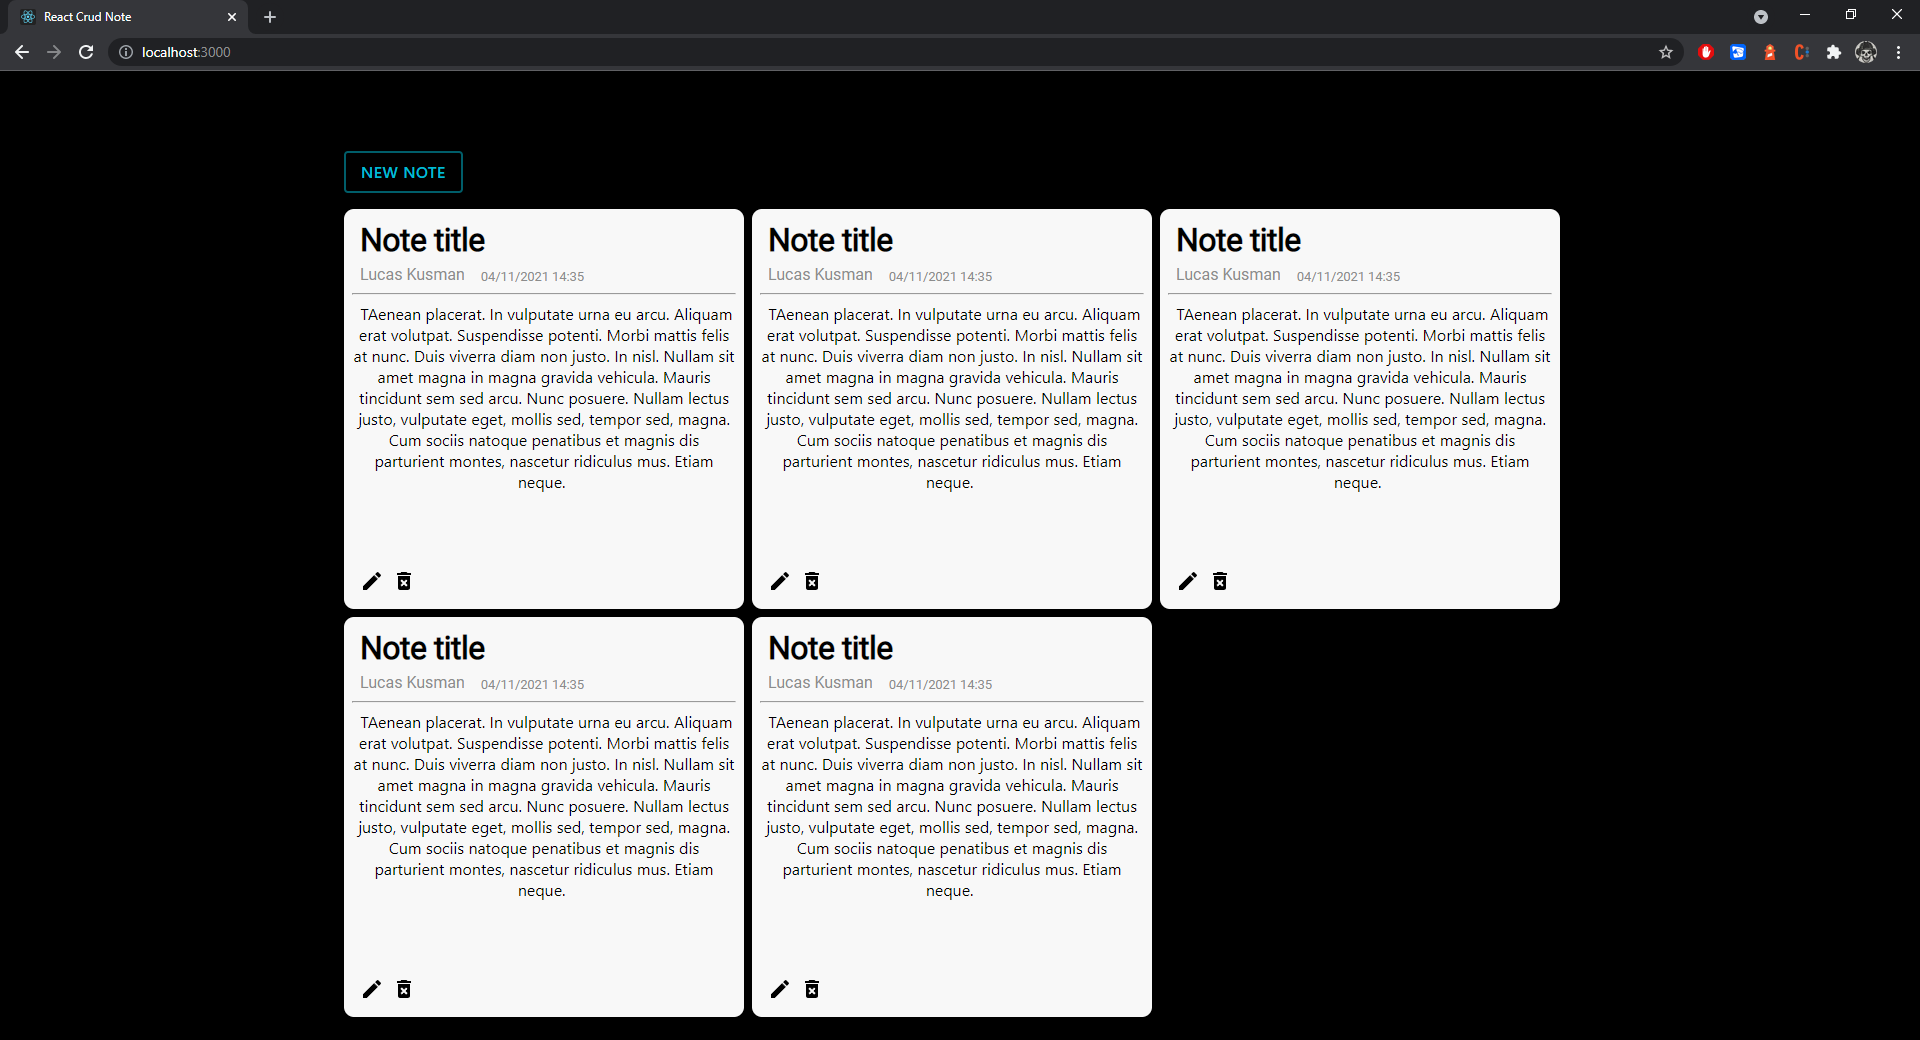
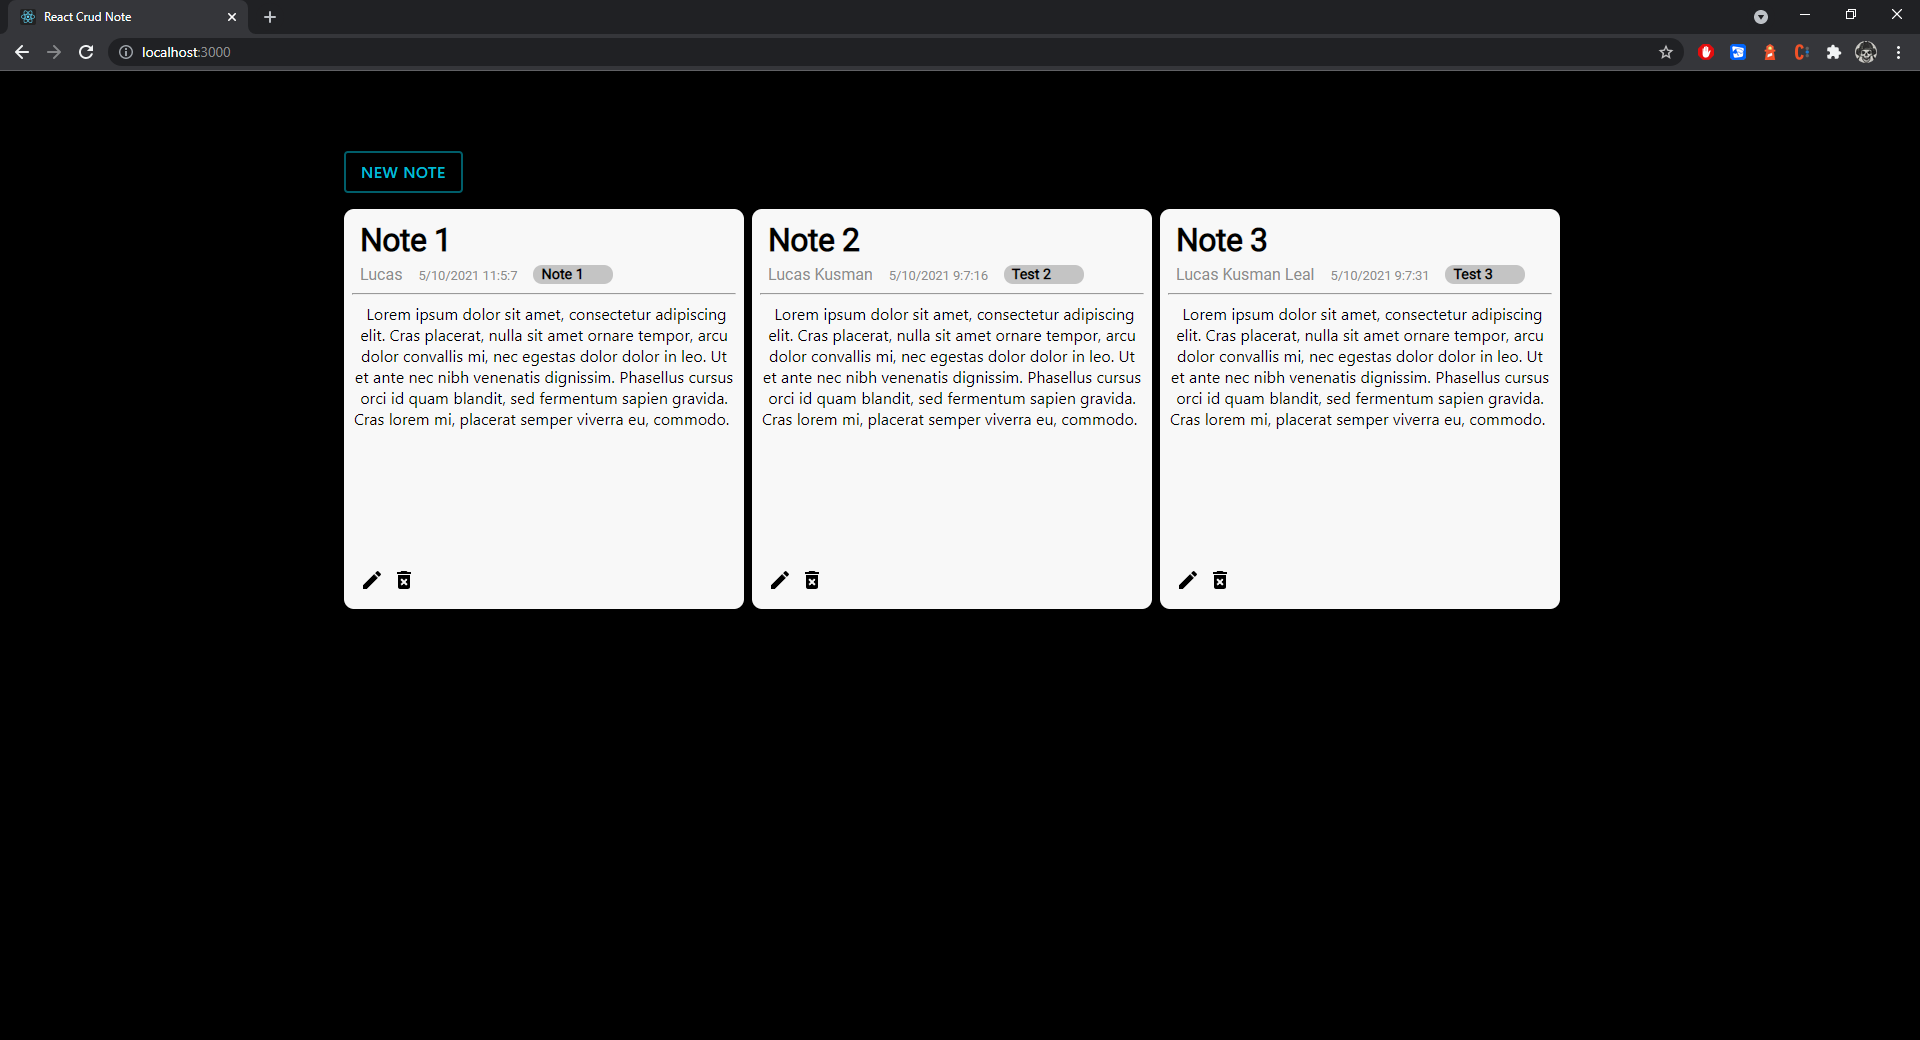
react-crud-note 0.1
-Adicionado função de editar uma nota.
-Adicionado página de edição de notas.
-Adicionado verificação perguntando se o usuário realmente deseja deletar uma nota.
-Adicionado funções para redirecionar  para a página principal quando uma nota é adicionada ou editada.

Changed region(s): [[0.1562, 0.5846, 0.625, 0.9846], [0.1875, 0.2154, 0.8125, 0.4923], [0.4375, 0.2154, 0.4688, 0.2462]]

diff --git a/client/src/pages/EditNote/index.js b/client/src/pages/EditNote/index.js
@@ -1,0 +1,169 @@
+import { React, useState, useLayoutEffect } from "react";
+import { useHistory } from "react-router";
+import { Container, Typography, Button } from "@material-ui/core";
+import { createTheme, ThemeProvider } from "@material-ui/core/styles";
+import Axios from "axios";
+
+import "./../../styles/global.css";
+import "./../../styles/index.css";
+
+function EditNote() {
+
+    var history = useHistory();
+
+    const [note, setNote] = useState([]);
+    const [title, setTitle] = useState();
+    const [tag, setTag] = useState();
+    const [text, setText] = useState();
+
+    useLayoutEffect(() => {
+
+        let data = JSON.parse(window.sessionStorage.getItem("editNote"));
+        setTitle(data[0].title);
+        setTag(data[0].tag);
+        setText(data[0].text);
+        setNote(data[0]);
+
+    }, []);
+
+    const edit = (id) => {
+
+        let datetime = new Date();
+        let date = datetime.getDate()+"/"+datetime.getMonth()+"/"+datetime.getFullYear() + " ";
+        let time = datetime.getHours()+":"+datetime.getMinutes()+":"+datetime.getSeconds();
+        let formatedDatetime = date + time;
+
+        Axios.put("http://localhost:3001/update", { 
+            id: id,
+            title: title,
+            tag: tag,
+            text: text,
+            datetime: formatedDatetime
+        }).then(() => {
+            console.log("Edits updated successful");
+            history.push("/");
+        });
+    }
+
+    function backHome()  {
+        history.push("/");
+    }
+
+    const noteAuthorStyle = {
+        color: "var(--gray-line)",
+        textAlign: "left",
+        fontSize: "1rem",
+        marginLeft: "0.6rem",
+        marginTop: "0.3rem",
+        fontWeight: "590"
+    }
+
+    const tagInputStyle = {
+        backgroundColor: "var(--gray-tag)",
+        marginTop: "0.4rem",
+        marginLeft: "1rem",
+        borderRadius: "20px",
+        border: 0,
+        height: "1.2rem",
+        width: "5rem",
+        paddingLeft: "0.5rem",
+        fontWeight: "600"
+    }
+
+    const titleInputStyle = {
+        width: "95%",
+        height: "2rem",
+        paddingLeft: "0.3rem",
+        marginTop: "0.5rem",
+        marginLeft: "0.5rem",
+        marginRight: "0.5rem",
+        borderRadius: "10px",
+        border: "0",
+        fontSize: "1.5rem",
+        fontWeight: "600",
+        textAlign: "left"
+    }
+
+    const textAreaStyle = {
+        width: "95%",
+        height: "95%",
+        paddingLeft: "0.5rem",
+        paddingTop: "0.3rem",
+        marginLeft: "0.5rem",
+        marginRight: "0.5rem",
+        borderRadius: "10px",
+        border: "0",
+        resize: "none"
+    }
+
+    const addNoteButton = createTheme({
+        palette: {
+            primary: {
+                light: "#008394",
+                main: "#00bcd4",
+                dark: "#33c9dc",
+                getContrastText: "#33c9dc"
+            },
+            secondary: {
+                light: "#C4C4C4",
+                main: "#C4C4C4",
+                dark: "#C4C4C4",
+                getContrastText: "#C4C4C4"
+            }
+        }
+    });
+
+    
+
+    return (
+
+        <div>
+            
+                <Container maxwidth="lg" style={{"marginTop": "10%"}} align="center">
+
+                    <div className="grid-note" style={{"marginLeft": "0.5rem", "marginTop": "0.5rem"}}>
+
+                        <div className="note-header">
+
+                            <input type="text" defaultValue={note.title} style={titleInputStyle} onChange={ (e) => {setTitle(e.target.value)} } />
+                            
+                            <div style={{"display": "flex"}}>
+                                <Typography variant="h5" style={noteAuthorStyle}>{note.author}</Typography>
+                                <input type="text" defaultValue={note.tag} style={tagInputStyle} onChange={ (e) => {setTag(e.target.value)} }/>
+                            </div>
+
+                        </div>
+
+                        <hr style={{"marginTop": "0.5rem"}}/>
+
+                        <div className="note-body">
+                            <textarea defaultValue={note.text} style={textAreaStyle} onChange={ (e) => {setText(e.target.value)} }></textarea>
+                        </div>
+
+                    </div>
+
+                    <div className="div-container">
+                        <div style={{"display": "block"}}>
+                            <ThemeProvider theme={addNoteButton}>
+                                <Button variant="outlined" color="primary" onClick={() => edit(note.id)} style={{"borderWidth": "2px", "marginTop": "2rem", "float": "left"}}>SAVE EDITS</Button>
+                            </ThemeProvider>
+                        </div>
+                    </div>
+
+                    <div className="div-container">
+                            <ThemeProvider theme={addNoteButton}>
+                                <Button variant="outlined" color="secondary" onClick={() => backHome()} style={{"borderWidth": "2px", "marginTop": "1rem", "float": "left"}}>CANCEL</Button>
+                            </ThemeProvider>
+                    </div>
+                    
+                </Container>
+
+        </div>
+
+        
+
+    )
+
+}
+
+export default EditNote;

diff --git a/client/src/pages/Home/index.js b/client/src/pages/Home/index.js
@@ -1,5 +1,5 @@
 import { React, useState, useEffect } from "react";
-import { useHistory, Redirect, Link } from "react-router-dom";
+import { useHistory, Link } from "react-router-dom";
 import Axios from "axios";
 
 import { Container, Typography, Button } from "@material-ui/core";
@@ -31,17 +31,30 @@ function Home() {
   }
 
   const deleteNote = (id) => {
-    Axios.delete(`http://localhost:3001/delete/${id}`).then((response) => {
-      setNotesArray(
-          notesArray.filter((val) => {
-              return val.id != id;
-          })
-      )
-    })
+
+    let answer = window.confirm("Are you sure want to delete?");
+      if (answer) {
+        Axios.delete(`http://localhost:3001/delete/${id}`).then((response) => {
+          setNotesArray(
+              notesArray.filter((val) => {
+                  return val.id != id;
+              })
+          )
+        });
+      }
+
   }
 
-  function AddNote(e) {
-    console.log("addnote")
+  function editNote(val) {
+    let note = [];
+    note.push({
+        id: val.id,
+        title: val.title,
+        text: val.text,
+        tag: val.tag,
+        author: val.author
+    })
+    window.sessionStorage.setItem("editNote", JSON.stringify(note));
   }
 
   const noteTitleStyle = {
@@ -67,8 +80,16 @@ function Home() {
     textAlign: "left",
     fontSize: "0.8rem",
     marginLeft: "1rem",
-    marginTop: "0.6rem",
+    marginTop: "0.5rem",
     fontWeight: "590"
+  }
+
+  const noteTagStyle = {
+    color: "var(--black)",
+    textAlign: "left",
+    fontSize: "0.9rem",
+    fontWeight: "600",
+    paddingLeft: "0.5rem"
   }
 
   const noteTextStyle = {
@@ -97,44 +118,12 @@ function Home() {
       <ThemeProvider theme={addNoteButton}>
         
         <Link to="/add">
-            <Button variant="outlined" color="primary" onClick={AddNote} style={{"borderWidth": "2px", "marginBottom": "0.5rem", "float": "left"}}>New Note</Button>
+            <Button variant="outlined" color="primary" style={{"borderWidth": "2px", "marginBottom": "0.5rem", "float": "left"}}>New Note</Button>
         </Link>
 
       </ThemeProvider>
 
       <Grid container spacing={2}>
-
-        {
-            /*
-            <Grid item className="grid-note" style={{"marginLeft": "0.5rem", "marginTop": "0.5rem"}}>
-
-            <div className="note-header">
-  
-              <Typography variant="h1" style={noteTitleStyle}>Note title</Typography>
-              
-              <div style={{"display": "flex"}}>
-                <Typography variant="h5" style={noteAuthorStyle}>Lucas Kusman</Typography>
-                <Typography variant="h5" style={noteDatetimeStyle}>04/11/2021 14:35</Typography>
-              </div>
-              
-            </div>
-  
-            <hr style={{"marginTop": "0.5rem"}}/>
-  
-            <div className="note-body">
-              <Typography variant="p" style={noteTextStyle}>TAenean placerat. In vulputate urna eu arcu. Aliquam erat volutpat. Suspendisse potenti. Morbi mattis felis at nunc. Duis viverra diam non justo. In nisl. Nullam sit amet magna in magna gravida vehicula. Mauris tincidunt sem sed arcu. Nunc posuere. Nullam lectus justo, vulputate eget, mollis sed, tempor sed, magna. Cum sociis natoque penatibus et magnis dis parturient montes, nascetur ridiculus mus. Etiam neque.
-  
-              </Typography>
-            </div>
-  
-            <div className="note-footer">
-              <Edit className="footer-icon edit-icon" />
-              <DeleteForever className="footer-icon delete-icon"/>
-            </div>
-  
-          </Grid>
-          */
-        }
 
         {
             notesArray.map((val, key) => {
@@ -148,8 +137,13 @@ function Home() {
                             <div style={{"display": "flex"}}>
                                 <Typography variant="h5" style={noteAuthorStyle}>{val.author}</Typography>
                                 <Typography variant="h5" style={noteDatetimeStyle}>{val.datetime}</Typography>
+
+                                <div className="note-tag">
+                                  <Typography variant="h5" style={noteTagStyle}>{val.tag}</Typography>
+                                </div>
+
                             </div>
-                        
+
                         </div>
             
                         <hr style={{"marginTop": "0.5rem"}}/>
@@ -159,7 +153,9 @@ function Home() {
                         </div>
             
                         <div className="note-footer">
-                            <Edit className="footer-icon edit-icon" />
+                            <Link to="/edit">
+                                <Edit className="footer-icon edit-icon" onClick={() => editNote(val)} />
+                            </Link>
                             <DeleteForever onClick={() => deleteNote(val.id)} className="footer-icon delete-icon"/>
                         </div>
         

diff --git a/client/src/pages/AddNote/index.js b/client/src/pages/AddNote/index.js
@@ -1,4 +1,5 @@
 import { React, useState } from "react";
+import { useHistory } from "react-router";
 import { Container, Typography, Button } from "@material-ui/core";
 import { createTheme, ThemeProvider } from "@material-ui/core/styles";
 import Axios from "axios";
@@ -8,6 +9,8 @@ import "./../../styles/addNote.css";
 import "@fontsource/roboto";
 
 function AddNote() {
+
+  var history = useHistory();
 
   const [title, setTitle] = useState();
   const [text, setText] = useState();
@@ -41,6 +44,7 @@ function AddNote() {
     })
     .then(() => {
       console.log("Successful sendNote");
+      history.push("/");
     })
   }
 

diff --git a/server/index.js b/server/index.js
@@ -51,12 +51,13 @@ app.put("/update", (req, res) => {
 
     let id = req.body.id;
     let title = req.body.title;
+    let tag = req.body.title;
     let text = req.body.text;
     let datetime = req.body.datetime;
 
     db.query(
-        "UPDATE note SET title = ?, text = ?, datetime = ? WHERE id = ?",
-        [title, text, datetime, id],
+        "UPDATE note SET title = ?, tag = ?, text = ?, datetime = ? WHERE id = ?",
+        [title, tag, text, datetime, id],
         (err, result) => {
             if (err) {
                 console.log(err);

diff --git a/client/src/Routes.js b/client/src/Routes.js
@@ -1,6 +1,7 @@
 import {BrowserRouter, Route} from 'react-router-dom';
 import Home from "./pages/Home";
 import AddNote from "./pages/AddNote";
+import EditNote from './pages/EditNote';
 
 const Routes = () => {
 
@@ -8,8 +9,8 @@ const Routes = () => {
         <BrowserRouter>
         
             <Route path="/" exact={true} component={Home}/>
-            
             <Route path="/add" exact={true} component={AddNote} />
+            <Route path="/edit" exact={true} component={EditNote} />
             
         </BrowserRouter>
     )

diff --git a/client/src/styles/index.css b/client/src/styles/index.css
@@ -12,6 +12,15 @@
     border-radius: 10px;
 }
 
+.note-tag {
+    margin-top: 0.4rem;
+    margin-left: 1rem;
+    height: 1.2rem;
+    background-color: var(--gray-tag);
+    border-radius: 20px;
+    width: 5rem;
+}
+
 .note-body {
     margin-top: 0.5rem;
     height: 16rem;
@@ -19,6 +28,7 @@
 
 .footer-icon {
     float: left;
+    color: var(--black);
     margin-top: 0.6rem;
     margin-left: 0.5rem;
 }
